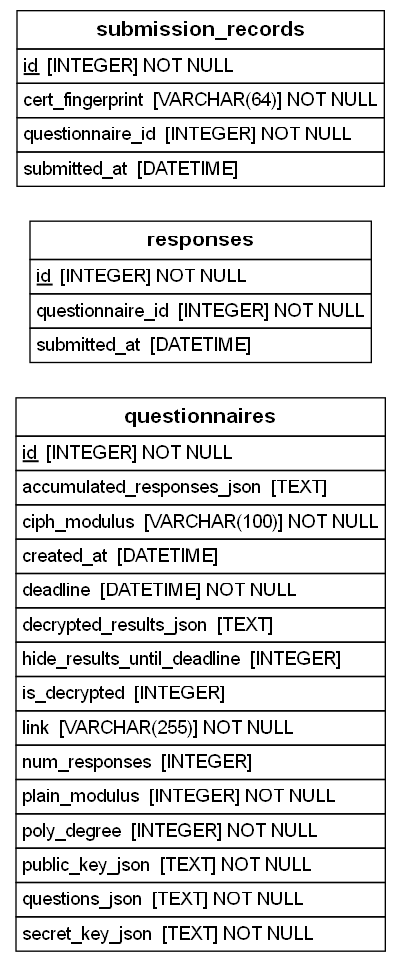
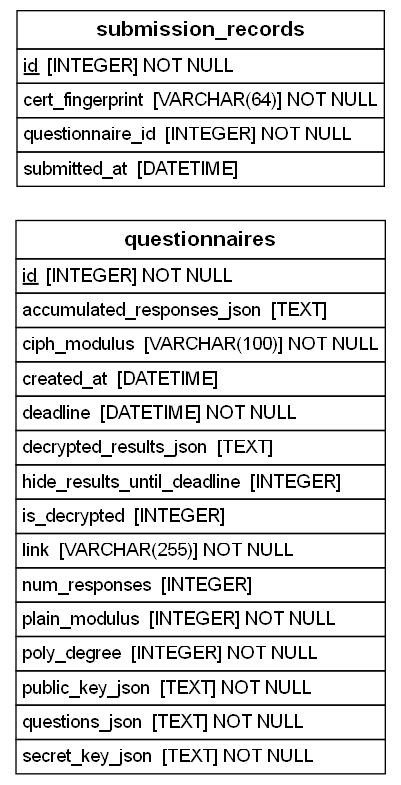
Updated the readme and eliminate response

Changed region(s): [[0.0299, 0.0, 0.9875, 1.0]]

diff --git a/Backend/models.py b/Backend/models.py
@@ -108,22 +108,6 @@ class Questionnaire(Base):
         self.is_decrypted = 1
 
 
-class Response(Base):
-    """
-    Optional table to track individual responses (without decrypting them).
-    Useful for analytics like response count per timestamp.
-    """
-    __tablename__ = 'responses'
-    
-    id = Column(Integer, primary_key=True, autoincrement=True)
-    questionnaire_id = Column(Integer, nullable=False, index=True)
-    submitted_at = Column(DateTime, default=lambda: datetime.now(timezone.utc))
-    # We don't store the actual encrypted data here, just metadata
-    
-    def __repr__(self):
-        return f"<Response(id={self.id}, questionnaire_id={self.questionnaire_id}, submitted_at='{self.submitted_at}')>"
-
-
 class SubmissionRecord(Base):
     """
     Table to track which certificate fingerprints have answered which questionnaire.

diff --git a/Backend/app.py b/Backend/app.py
@@ -15,7 +15,7 @@ from datetime import datetime, timezone
 import json
 import ssl
 
-from models import init_db, get_session, Questionnaire, Response, SubmissionRecord
+from models import init_db, get_session, Questionnaire, SubmissionRecord
 from bfv.bfv_evaluator import BFVEvaluator
 from bfv.bfv_parameters import BFVParameters
 from bfv.bfv_decryptor import BFVDecryptor
@@ -338,9 +338,6 @@ def submit_answers():
 
         questionnaire.set_accumulated_responses(accumulated)
         questionnaire.num_responses += 1
-        
-        response = Response(questionnaire_id=questionnaire.id)
-        session.add(response)
         
         submission_record = SubmissionRecord(
             questionnaire_id=questionnaire.id,

diff --git a/Backend/generate_schema.py b/Backend/generate_schema.py
@@ -1,5 +1,5 @@
 from eralchemy2 import render_er
-from models import Base, Questionnaire, Response, SubmissionRecord
+from models import Base, Questionnaire, SubmissionRecord
 import os
 
 def generate_diagram():

diff --git a/README.md b/README.md
@@ -115,21 +115,32 @@ Question 1: ¿Cuál es tu lenguaje de programación favorito?
 
 | Campo | Tipo | Descripción |
 |-------|------|-------------|
-| `id` | Integer | ID único |
-| `link` | String | Link único del cuestionario |
-| `deadline` | DateTime | Fecha límite |
+| `id` | Integer | ID único (Primary Key) |
+| `link` | String(255) | Link único del cuestionario (único, indexado) |
+| `deadline` | DateTime | Fecha límite para responder |
 | `questions_json` | Text | JSON con preguntas y opciones |
 | `poly_degree` | Integer | Grado del polinomio (parámetro BFV) |
-| `plain_modulus` | Integer | Módulo de texto plano |
-| `ciph_modulus` | String | Módulo de cifrado (número grande) |
-| `public_key_json` | Text | Clave pública serializada |
-| `secret_key_json` | Text | Clave secreta serializada |
-| `accumulated_responses_json` | Text | Respuestas cifradas acumuladas |
+| `plain_modulus` | Integer | Módulo de texto plano (parámetro BFV) |
+| `ciph_modulus` | String(100) | Módulo de cifrado (número grande, almacenado como string) |
+| `public_key_json` | Text | Clave pública serializada (JSON) |
+| `secret_key_json` | Text | Clave secreta serializada (JSON) |
+| `accumulated_responses_json` | Text | Respuestas cifradas acumuladas (JSON, nullable) |
+| `decrypted_results_json` | Text | Resultados descifrados (JSON, nullable) |
+| `is_decrypted` | Integer | Flag booleano: 0=no descifrado, 1=descifrado |
+| `hide_results_until_deadline` | Integer | Flag booleano: 1=ocultar resultados hasta deadline, 0=mostrar |
+| `created_at` | DateTime | Fecha de creación (UTC) |
 | `num_responses` | Integer | Número de respuestas recibidas |
 
-### Tabla `responses`
+### Tabla `submission_records`
 
-Rastrea metadata de respuestas individuales (sin datos cifrados).
+Rastrea qué certificados de cliente (usuarios) han respondido cada cuestionario para prevenir respuestas duplicadas.
+
+| Campo | Tipo | Descripción |
+|-------|------|-------------|
+| `id` | Integer | ID único (Primary Key) |
+| `questionnaire_id` | Integer | ID del cuestionario (Foreign Key, indexado) |
+| `cert_fingerprint` | String(64) | Huella digital SHA-256 del certificado del cliente |
+| `submitted_at` | DateTime | Fecha y hora de envío (UTC) |
 
 ## 🔐 Cómo Funciona
 
